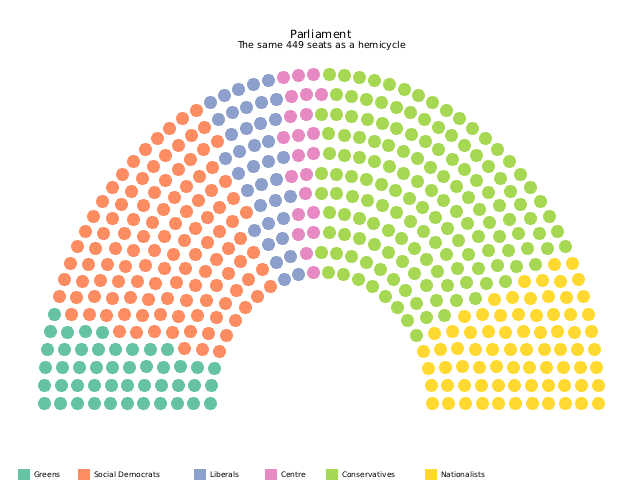
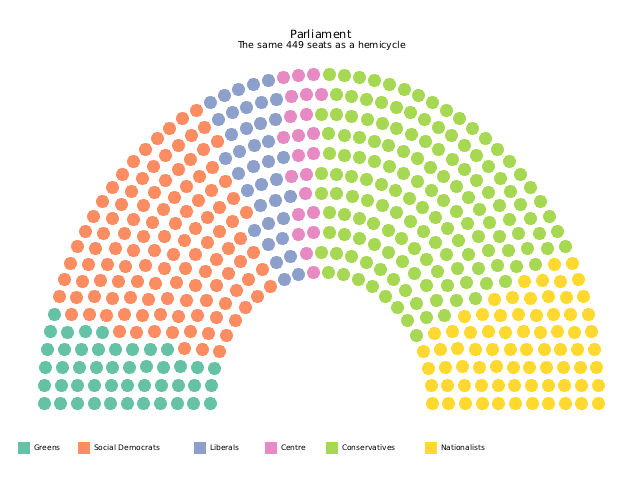
docs(gallery): geom_flow flow map tile; refresh parliament (#326)
parliament.png now shows its Bottom legend (theme_void fix #341).

diff --git a/examples/gallery.rs b/examples/gallery.rs
@@ -113,6 +113,8 @@ fn main() -> Result<(), Box<dyn std::error::Error>> {
     calendar()?;
     #[cfg(feature = "sf")]
     spatial()?;
+    #[cfg(feature = "sf")]
+    flow_map()?;
     legend_wrap()?;
     boxplot_identity()?;
     themes()?;
@@ -643,6 +645,103 @@ fn spatial() -> Result<(), Box<dyn std::error::Error>> {
         .title("Choropleth")
         .theme(theme)
         .save_with_size(&out("spatial"), W, H)?;
+    Ok(())
+}
+
+/// Origin–destination flow map (`geom_flow`) — weighted, curved bands
+/// between European cities, Mercator-projected under `coord_sf`.
+#[cfg(feature = "sf")]
+fn flow_map() -> Result<(), Box<dyn std::error::Error>> {
+    use ggplot_rs::geom::flow::GeomFlow;
+    use ggplot_rs::spatial::SfProjection;
+    let city = |name: &str| -> (f64, f64) {
+        match name {
+            "Berlin" => (13.40, 52.52),
+            "Paris" => (2.35, 48.86),
+            "London" => (-0.13, 51.51),
+            "Madrid" => (-3.70, 40.42),
+            "Rome" => (12.50, 41.90),
+            "Vienna" => (16.37, 48.21),
+            "Stockholm" => (18.07, 59.33),
+            _ => (4.90, 52.37), // Amsterdam
+        }
+    };
+    let routes = [
+        ("Berlin", "Paris", 420.0),
+        ("Paris", "London", 610.0),
+        ("London", "Amsterdam", 380.0),
+        ("Madrid", "Paris", 290.0),
+        ("Rome", "Vienna", 150.0),
+        ("Vienna", "Berlin", 240.0),
+        ("Stockholm", "Berlin", 130.0),
+        ("Amsterdam", "Berlin", 310.0),
+        ("Rome", "Madrid", 180.0),
+    ];
+    let (mut lon0, mut lat0, mut lon1, mut lat1, mut n, mut route) =
+        (vec![], vec![], vec![], vec![], vec![], vec![]);
+    for (a, b, w) in routes {
+        let (o, d) = (city(a), city(b));
+        lon0.push(o.0);
+        lat0.push(o.1);
+        lon1.push(d.0);
+        lat1.push(d.1);
+        n.push(w);
+        route.push(format!("{a} → {b}"));
+    }
+    let df = df! {
+        "lon0" => lon0, "lat0" => lat0, "lon1" => lon1, "lat1" => lat1,
+        "n" => n, "route" => route,
+    }?;
+    // City markers + names, projected like the flows.
+    let names = [
+        "Berlin",
+        "Paris",
+        "London",
+        "Madrid",
+        "Rome",
+        "Vienna",
+        "Stockholm",
+        "Amsterdam",
+    ];
+    let proj = SfProjection::Mercator;
+    let xy: Vec<[f64; 2]> = names
+        .iter()
+        .map(|c| {
+            let (lo, la) = city(c);
+            proj.project([lo, la])
+        })
+        .collect();
+    let cities = df! {
+        "cx" => xy.iter().map(|p| p[0]).collect::<Vec<_>>(),
+        "cy" => xy.iter().map(|p| p[1]).collect::<Vec<_>>(),
+        "city" => names.to_vec(),
+    }?;
+    let mut theme = theme_minimal();
+    theme.axis_text_x.visible = false;
+    theme.axis_text_y.visible = false;
+    GGPlot::new(df)
+        .geom_flow(GeomFlow::default().project(proj))
+        .layer_aes(
+            Aes::new()
+                .x("lon0")
+                .y("lat0")
+                .xend("lon1")
+                .yend("lat1")
+                .weight("n")
+                .label("route"),
+        )
+        .geom_point()
+        .layer_data(cities.clone())
+        .layer_aes(Aes::new().x("cx").y("cy"))
+        .geom_text()
+        .layer_data(cities)
+        .layer_aes(Aes::new().x("cx").y("cy").label("city"))
+        .position(ggplot_rs::position::nudge::PositionNudge::new(0.0, 0.012))
+        .coord_sf()
+        .primary_color((49, 130, 189))
+        .title("Flow map (geom_flow)")
+        .theme(theme)
+        .save_with_size(&out("flow_map"), W, H)?;
     Ok(())
 }
 

diff --git a/README.md b/README.md
@@ -303,6 +303,10 @@ Highcharts-style chart types, each one layer in the grammar (tracked under the
       <img src="assets/gallery/calendar.png" width="260" alt="Calendar heatmap"><br>
       <sub>Calendar heatmap · <code>geom_calendar</code></sub>
     </td>
+    <td align="center" width="33%">
+      <img src="assets/gallery/flow_map.png" width="260" alt="Flow map"><br>
+      <sub>Flow map · <code>geom_flow</code> (<code>sf</code>)</sub>
+    </td>
   </tr>
 </table>
 
